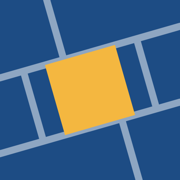
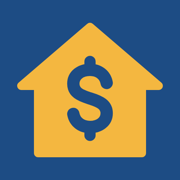
Nová ikona webu: zlatý dům se znakem dolaru
Původní zlatá parcela na šikmé mřížce byla v záložce prohlížeče jen
zlatá skvrna. Dům se znakem ceny je čitelný i v malé velikosti.
Odkazy na ikony mají novou adresu, aby prohlížeče nedržely starou.

diff --git a/scripts/assets/icon.html b/scripts/assets/icon.html
@@ -2,7 +2,10 @@
 <html>
   <head>
     <meta charset="utf-8" />
-    <!-- Zdroj ikon (stejný motiv jako public/favicon.svg): zlatá parcela na modrém výkresu.
+    <!-- Zdroj ikon (stejný motiv jako public/favicon.svg): zlatý dům se znakem dolaru na modrém
+         čtverci – nemovitost a její cena. Okraje domu leží na mřížce po čtyřech jednotkách, aby byly
+         ostré i v 16 px. Znak má místo svislé čáry jen krátké čárky nahoře a dole, jinak se v malé
+         velikosti slije.
          ?square = plné čtvercové pozadí pro apple-touch-icon (iOS si rohy zakulatí sám). -->
     <style>
       * { margin: 0; }
@@ -12,19 +15,13 @@
   </head>
   <body>
     <svg viewBox="0 0 64 64" xmlns="http://www.w3.org/2000/svg">
-      <defs>
-        <clipPath id="tvar"><rect id="bg-clip" width="64" height="64" rx="14" /></clipPath>
-      </defs>
-      <g clip-path="url(#tvar)">
-        <rect width="64" height="64" fill="#1d4c84" />
-        <g transform="rotate(-16 32 32)">
-          <path d="M-12 19h88M-12 45h88M11 19v26M53 19v26M-2 -8v27M26 -8v27M40 45v28M64 45v28" fill="none" stroke="#fff" stroke-opacity=".5" stroke-width="2.5" />
-          <rect x="19" y="19" width="26" height="26" fill="#f4b740" />
-        </g>
-      </g>
+      <rect width="64" height="64" rx="14" fill="#1d4c84" id="pozadi"/>
+      <path fill="#f4b740" stroke="#f4b740" stroke-width="3" stroke-linejoin="round" d="M32 9.5 7.5 30.5h6v24h37v-24h6z"/>
+      <path fill="none" stroke="#1d4c84" stroke-width="4.4" stroke-linecap="round" stroke-linejoin="round" d="M37.95 29.48c-0.51 -2.8 -2.8 -4.67 -5.95 -4.67 -3.4 0 -5.95 1.95 -5.95 4.93 0 3.06 2.38 4.17 5.95 5.27s5.95 2.29 5.95 5.27c0 2.98 -2.55 4.93 -5.95 4.93 -3.15 0 -5.44 -1.87 -5.95 -4.67"/>
+      <path fill="none" stroke="#1d4c84" stroke-width="4" stroke-linecap="round" d="M32 21.82V24.8M32 45.2v2.98"/>
     </svg>
     <script>
-      if (location.search.includes('square')) document.getElementById('bg-clip').setAttribute('rx', '0');
+      if (location.search.includes('square')) document.getElementById('pozadi').setAttribute('rx', '0');
     </script>
   </body>
 </html>
